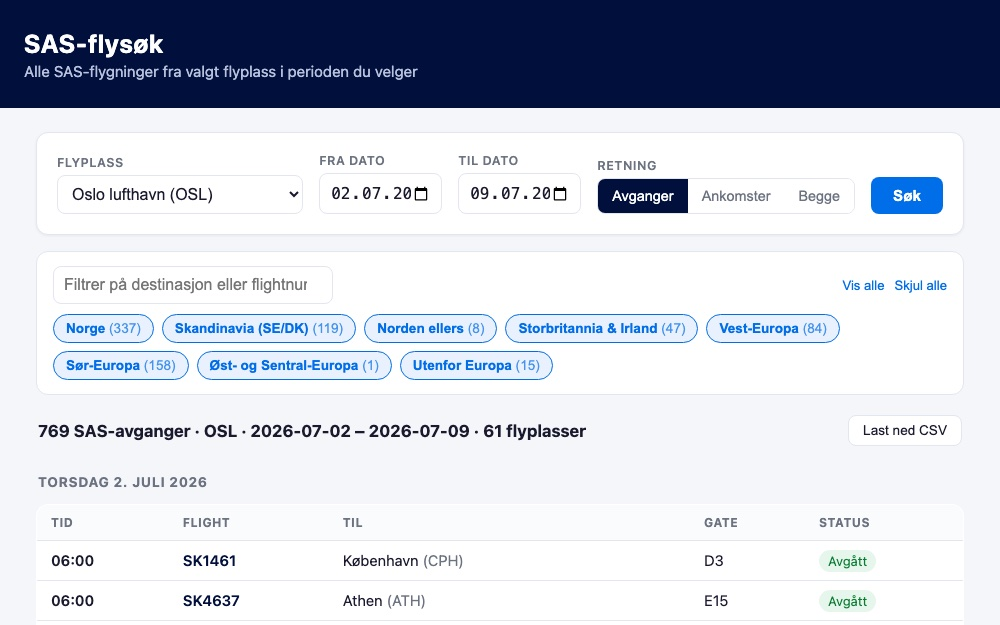
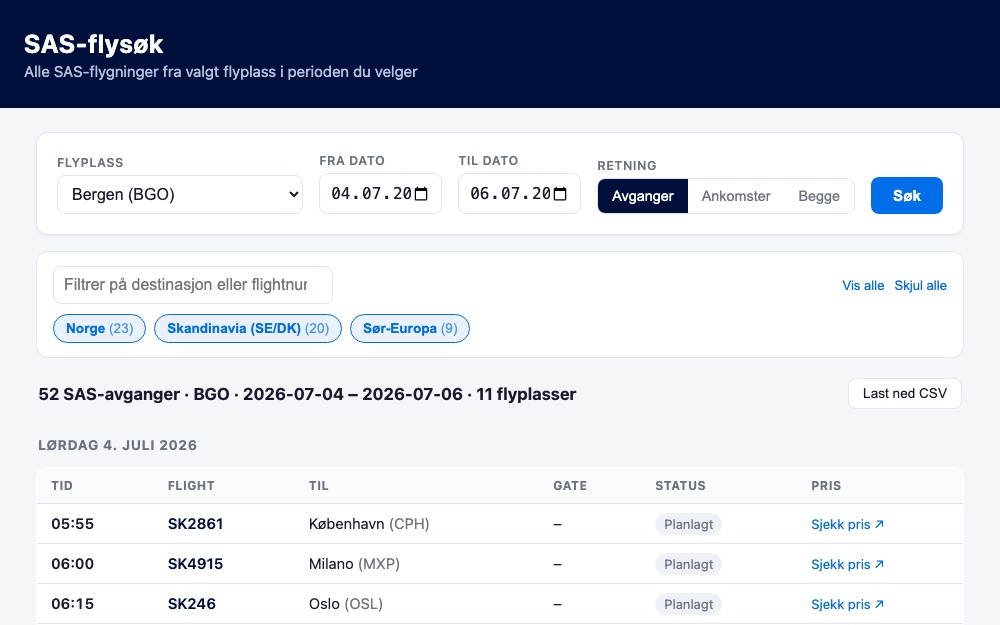
Oppdater SAS-flysøk-kort med pris-lenker og nytt skjermbilde

diff --git a/index.html b/index.html
@@ -140,9 +140,9 @@
               <h3 class="card__title">SAS-flysøk</h3>
               <p class="card__desc">
                 Lister alle SAS-flygninger fra valgt skandinavisk flyplass i
-                perioden du velger, med regionfiltre, fritekstsøk og CSV-eksport.
-                En Cloudflare Worker slår sammen sanntidsdata fra Avinor,
-                Swedavia og AeroDataBox til ett API.
+                perioden du velger, med regionfiltre, fritekstsøk, pris-lenker
+                per avgang og CSV-eksport. En Cloudflare Worker slår sammen
+                sanntidsdata fra Avinor, Swedavia og AeroDataBox til ett API.
               </p>
               <div class="card__actions">
                 <span class="tag">HTML · JS · Cloudflare Workers</span>
